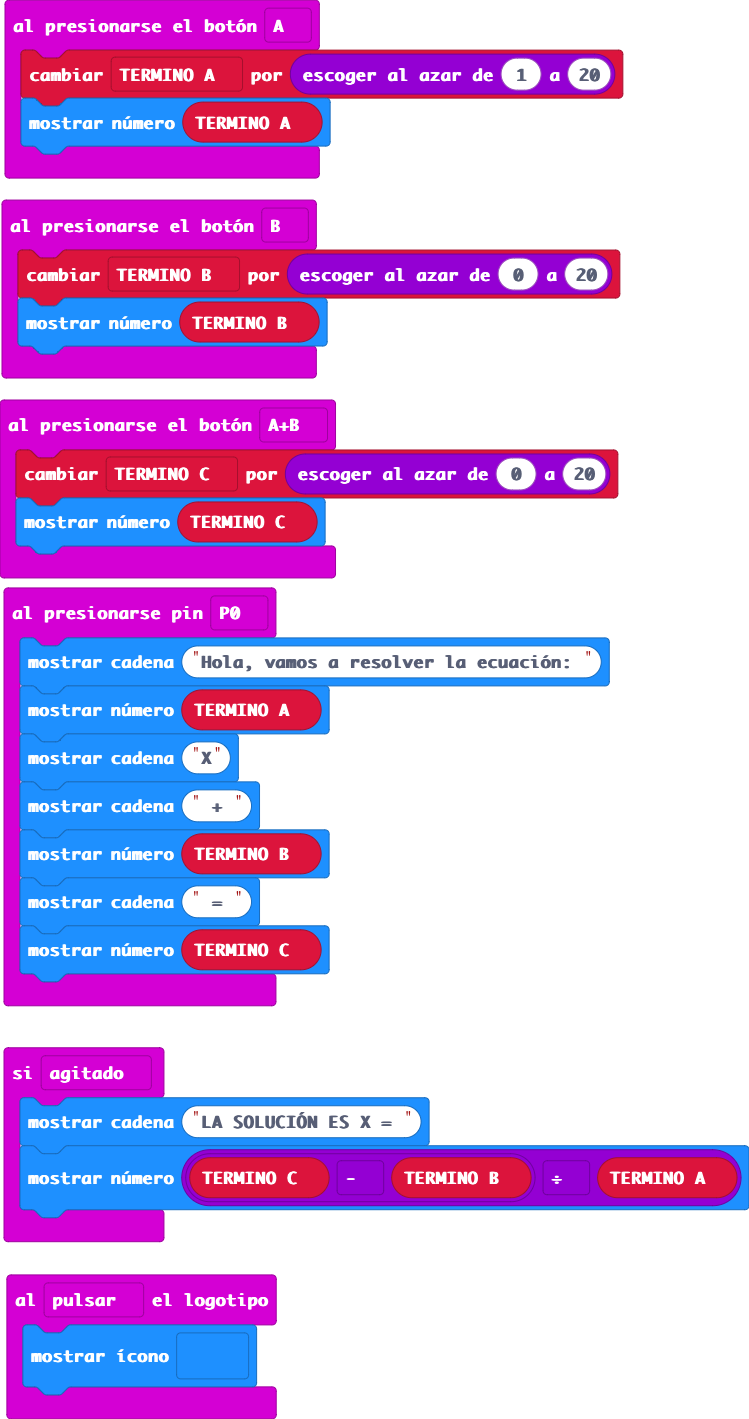
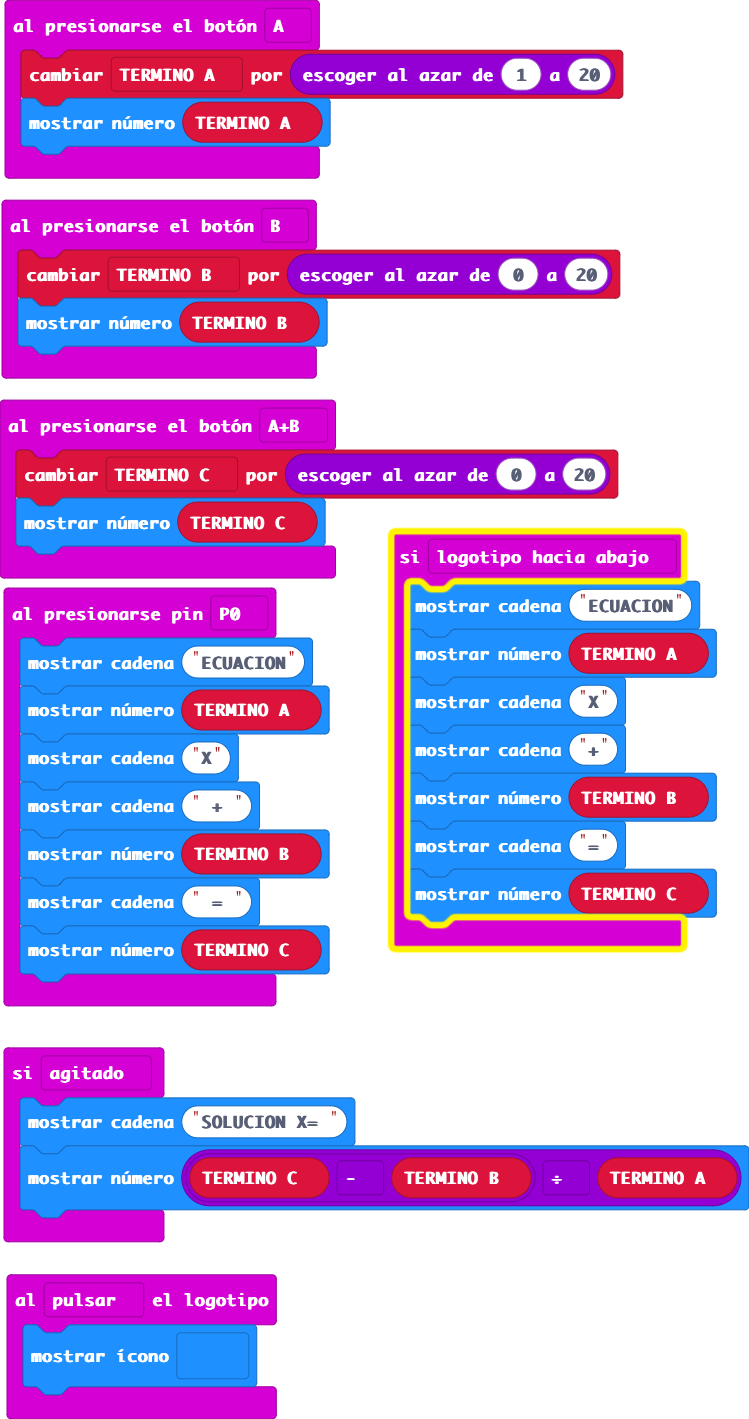
Actualizar main.blocks, main.ts

diff --git a/main.ts b/main.ts
@@ -2,7 +2,7 @@ let TERMINO_A = 0
 let TERMINO_B = 0
 let TERMINO_C = 0
 input.onPinPressed(TouchPin.P0, function () {
-    basic.showString("Hola, vamos a resolver la ecuación: ")
+    basic.showString("ECUACION")
     basic.showNumber(TERMINO_A)
     basic.showString("X")
     basic.showString(" + ")
@@ -18,7 +18,7 @@ input.onButtonPressed(Button.A, function () {
     basic.showNumber(TERMINO_A)
 })
 input.onGesture(Gesture.Shake, function () {
-    basic.showString("LA SOLUCIÓN ES X = ")
+    basic.showString("SOLUCION X= ")
     basic.showNumber((TERMINO_C - TERMINO_B) / TERMINO_A)
 })
 input.onButtonPressed(Button.AB, function () {
@@ -28,4 +28,13 @@ input.onButtonPressed(Button.AB, function () {
 input.onButtonPressed(Button.B, function () {
     TERMINO_B += randint(0, 20)
     basic.showNumber(TERMINO_B)
+})
+input.onGesture(Gesture.LogoDown, function () {
+    basic.showString("ECUACION")
+    basic.showNumber(TERMINO_A)
+    basic.showString("X")
+    basic.showString("+")
+    basic.showNumber(TERMINO_B)
+    basic.showString("=")
+    basic.showNumber(TERMINO_C)
 })
